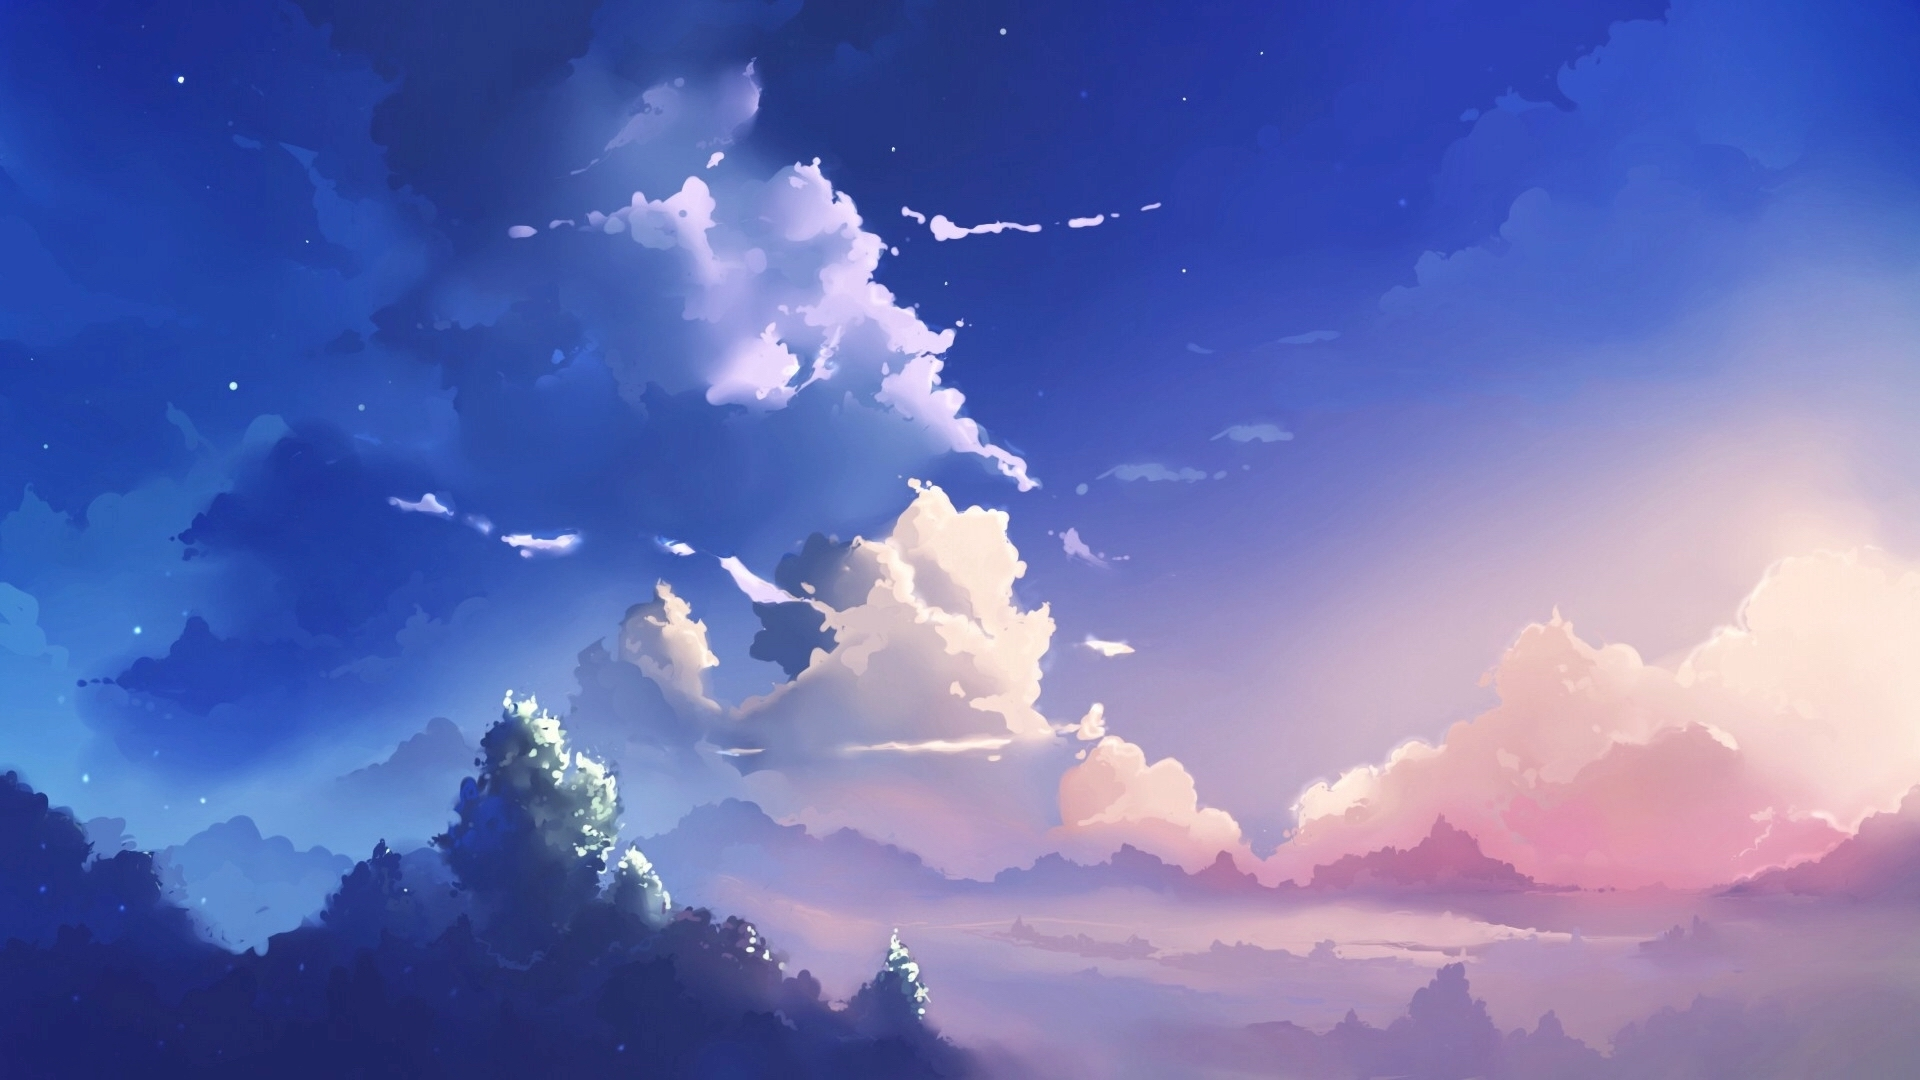
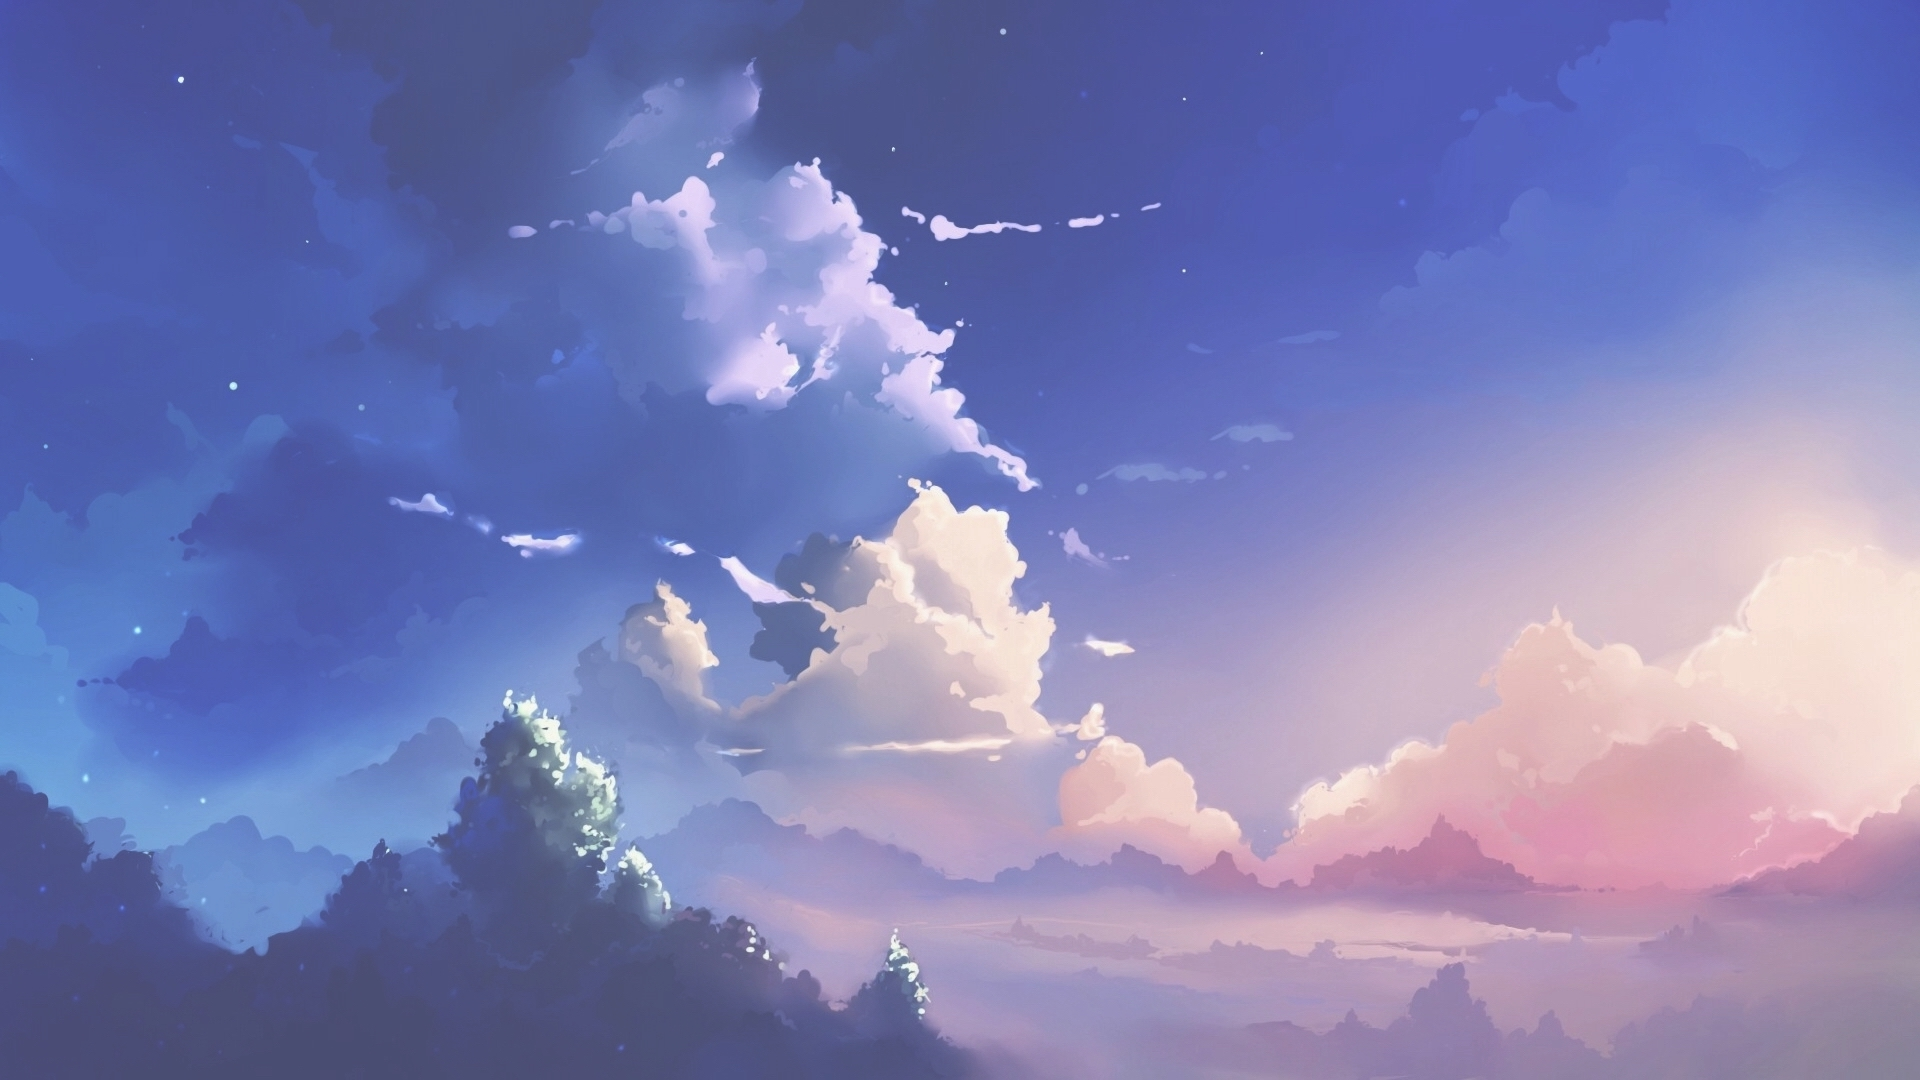
lighter background

diff --git a/src/App.jsx b/src/App.jsx
@@ -33,12 +33,14 @@ const DisplayLinks = props => {
 
             <Navbar>
                 <Navbar.Header>
-                    <Navbar.Brand>
-                        <Link to="/" className="nav-link">
-                            Home
-            			</Link>
-                    </Navbar.Brand>
+                <Navbar.Brand>
+                <Link to="/" className="nav-link">               
+            	</Link>
+                </Navbar.Brand>
                 </Navbar.Header>
+                <Link to="/" className="nav-link">
+                    Home
+            	</Link>
                 <Link to="/profile" className="nav-link">
                     Profile
                 </Link>
